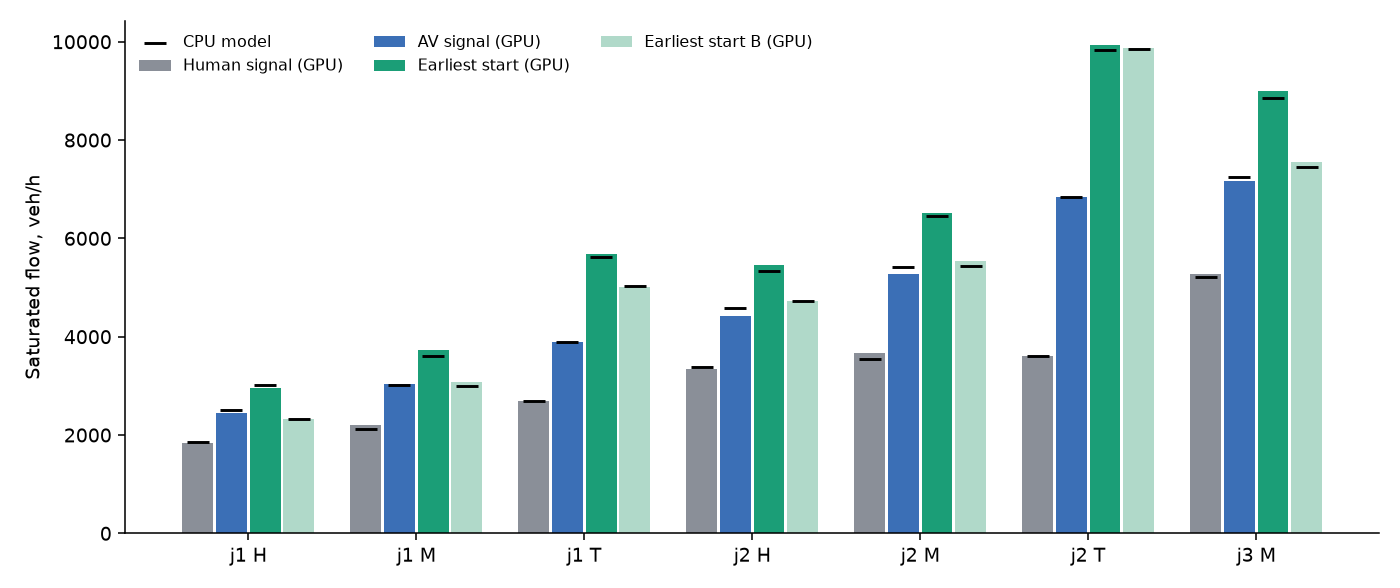
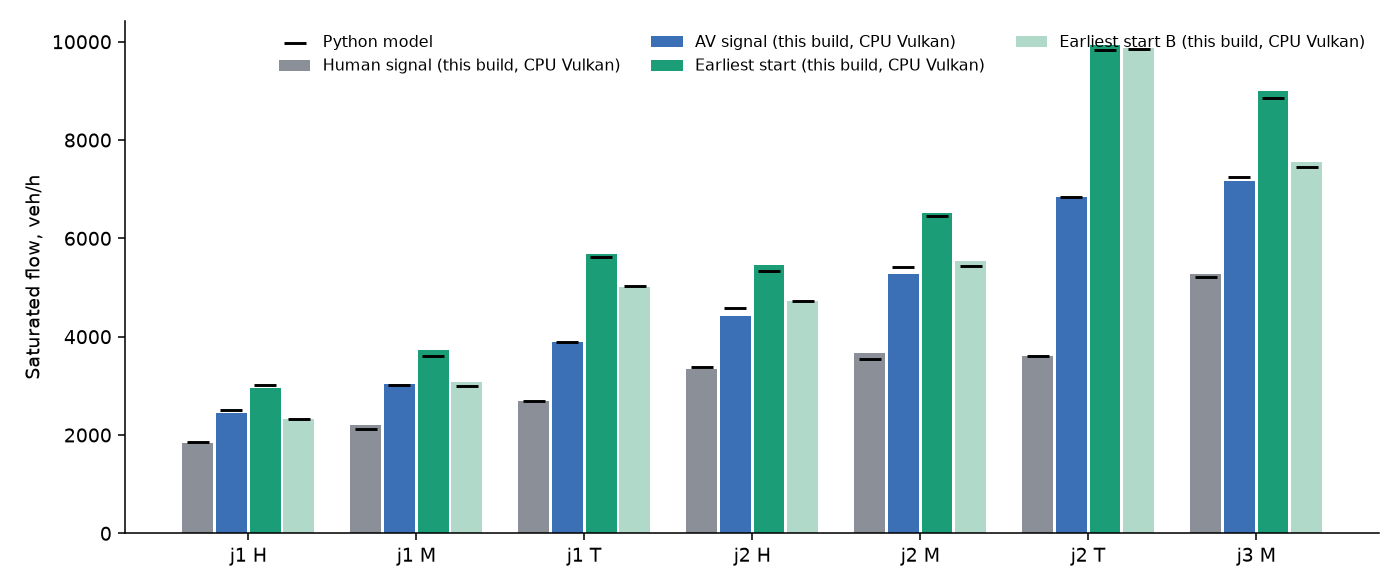
Fix two errors from the fact check: metering rows mixed policies, and GPU labels on CPU Vulkan results

Changed region(s): [[0.0921, 0.0612, 0.7064, 0.1224], [0.7064, 0.0612, 0.9829, 0.0918]]

diff --git a/scripts/d8/compare.py b/scripts/d8/compare.py
@@ -1,5 +1,6 @@
 #!/usr/bin/env python3
-"""GPU results against the CPU model (research/truth/fig/09b-*.csv): tables on stdout, figures in fig/d8."""
+"""Results of this build against the Python model of report 09 (research/truth/fig/09b-*.csv). Tables on stdout, figures
+in fig/d8. "This build" means the WGSL kernels on CPU Vulkan (llvmpipe) unless a column says GPU: only gpu_cells.jsonl ran on the RX 7900 XT."""
 import csv, json, sys
 from collections import defaultdict
 from pathlib import Path
@@ -50,8 +51,8 @@ def capacity():
     for r in cpu('capacity'):
         if r.get('flow'):
             cp[(r['net'], r['mix'], r['policy'], r['level'])].append(float(r['flow']))
-    print('\n## Capacity, veh/h: GPU against the CPU model')
-    print('| Case | Policy | GPU | CPU | Diff | Overlaps | Invariant | Teleports |')
+    print('\n## Capacity, veh/h: this build (CPU Vulkan) against the Python model')
+    print('| Case | Policy | This build | Python model | Diff | Overlaps | Invariant | Teleports |')
     print('|---|---|---:|---:|---:|---:|---:|---:|')
     names = dict(ges='Earliest start', sig_av='AV signal', sig_h='Human signal')
     out = []
@@ -77,8 +78,8 @@ def capacity():
                     xs.append(j + (i - 1.5) * w)
                     gv.append(m[0][2])
                     cv.append(m[0][3])
-            ax.bar(xs, gv, w * 0.92, label=p + ' (GPU)', color=colors[i])
-            ax.scatter(xs, cv, marker='_', s=120, color='black', zorder=3, label='CPU model' if i == 0 else None)
+            ax.bar(xs, gv, w * 0.92, label=p + ' (this build, CPU Vulkan)', color=colors[i])
+            ax.scatter(xs, cv, marker='_', s=120, color='black', zorder=3, label='Python model' if i == 0 else None)
         ax.set_xticks(range(len(cases)), cases)
         ax.set_ylabel('Saturated flow, veh/h')
         ax.legend(frameon=False, ncols=3, fontsize=8)
@@ -99,7 +100,7 @@ def demand():
     if not gpu:
         return
     print('\n## Delay, s per offered vehicle, and stops per car')
-    print('| Case | veh/h | Policy | GPU delay | CPU delay | GPU stops | CPU stops | Overlaps |')
+    print('| Case | veh/h | Policy | Delay, this build | Delay, Python model | Stops, this build | Stops, Python model | Overlaps |')
     print('|---|---:|---|---:|---:|---:|---:|---:|')
     for k in sorted(gpu):
         g = gpu[k]
@@ -126,7 +127,7 @@ def faults():
             x = r['x']
             cp[(r['fault'], float(x), float(r['demand']), r['chk'])] = r
     print('\n## Faults, 2 lanes, 20% turns')
-    print('| Fault | veh/h | GPU flow | CPU flow | GPU delay | CPU delay | Overlaps | Ungranted crossings | Stopped in box, veh·s |')
+    print('| Fault | veh/h | Flow, this build | Flow, Python model | Delay, this build | Delay, Python model | Overlaps | Ungranted crossings | Stopped in box, veh·s |')
     print('|---|---:|---:|---:|---:|---:|---:|---:|---:|')
     for r in rows('faults'):
         c, g = r['case'], r['result']
@@ -155,9 +156,9 @@ def loss_plot():
     fig, ax = plt.subplots(figsize=(6.5, 3.8))
     for d, col in ((3000, '#3b6fb6'), (5000, '#1b9e77')):
         xs = sorted(gpu[d])
-        ax.plot(xs, [gpu[d][x] for x in xs], 'o-', color=col, label=f'{d} veh/h, GPU')
+        ax.plot(xs, [gpu[d][x] for x in xs], 'o-', color=col, label=f'{d} veh/h, this build')
         xs = sorted(ref[d])
-        ax.plot(xs, [ref[d][x] for x in xs], 'x--', color=col, alpha=0.6, label=f'{d} veh/h, CPU')
+        ax.plot(xs, [ref[d][x] for x in xs], 'x--', color=col, alpha=0.6, label=f'{d} veh/h, Python model')
     ax.set_yscale('log')
     ax.set_xlabel('Message loss')
     ax.set_ylabel('Delay, s per vehicle')
@@ -170,7 +171,7 @@ def loss_plot():
 
 def stalls():
     print('\n## Injected stalls in the box (reported separately)')
-    print('| Case | veh/h | Stalls | Collision events | Per stall | CPU per stall |')
+    print('| Case | veh/h | Stalls | Collision events | Per stall | Python model per stall |')
     print('|---|---:|---:|---:|---:|---:|')
     agg = defaultdict(lambda: [0, 0])
     for r in rows('stalls'):
@@ -216,7 +217,7 @@ def verify():
     if not p.exists():
         return
     print('\n## CPU Vulkan against the RX 7900 XT, same binary, same cases')
-    print('| Part | Case | Flow, CPU | Flow, GPU | Diff | Overlaps, CPU | Overlaps, GPU |')
+    print('| Part | Case | Flow, CPU Vulkan | Flow, GPU | Diff | Overlaps, CPU Vulkan | Overlaps, GPU |')
     print('|---|---|---:|---:|---:|---:|---:|')
     for l in p.read_text().splitlines():
         r = json.loads(l)
@@ -237,7 +238,7 @@ def faults2():
     rs = rows('faults2')
     if not rs:
         return
-    print('\n## Links gone for good (not in the CPU model)')
+    print('\n## Links gone for good (not in the Python model)')
     print('| Case | veh/h | Flow | Delay | Overlaps | Ungranted crossings | Stuck cars at the end |')
     print('|---|---:|---:|---:|---:|---:|---:|')
     for r in rs:
@@ -252,7 +253,8 @@ def meter_table():
     agg = defaultdict(list)
     for r in rs:
         c = r['case']
-        agg[(c['net'], c['demand'], c.get('meter', 0))].append(r['result'])
+        if c.get('meter'):
+            agg[(c['net'], c['demand'], c['meter'])].append(r['result'])
     base = rows('grid') + rows('meter_seeds')
     b = defaultdict(list)
     for r in base:

diff --git a/research/truth/fig/d8/tables.md b/research/truth/fig/d8/tables.md
@@ -16,7 +16,7 @@
 | j3 M | 15000 | sig_av | 7269 | 255.0 | 6.80 | 0 | 0 | 0.72 |
 
 ## CPU Vulkan against the RX 7900 XT, same binary, same cases
-| Part | Case | Flow, CPU | Flow, GPU | Diff | Overlaps, CPU | Overlaps, GPU |
+| Part | Case | Flow, CPU Vulkan | Flow, GPU | Diff | Overlaps, CPU Vulkan | Overlaps, GPU |
 |---|---|---:|---:|---:|---:|---:|
 | demand | j2 5200 sig_h   | 3666 | 3666 | +0.0% | 0 | 0 |
 | demand | j2 3000 sig_h   | 2802 | 2802 | +0.0% | 0 | 0 |
@@ -47,8 +47,8 @@
 
 ## Saturation headway, one through stream each way: 5139 veh/h over 2 streams, 1.401 s per car; reference 1.304 s
 
-## Capacity, veh/h: GPU against the CPU model
-| Case | Policy | GPU | CPU | Diff | Overlaps | Invariant | Teleports |
+## Capacity, veh/h: this build (CPU Vulkan) against the Python model
+| Case | Policy | This build | Python model | Diff | Overlaps | Invariant | Teleports |
 |---|---|---:|---:|---:|---:|---:|---:|
 | j1 H | Earliest start | 2966 | 3021 | -1.8% | 0 | 0 | 0 |
 | j1 H | Earliest start B | 2324 | 2316 | +0.3% | 0 | 0 | 0 |
@@ -80,7 +80,7 @@
 | j3 M | Human signal | 5265 | 5208 | +1.1% | 0 | 0 | 0 |
 
 ## Delay, s per offered vehicle, and stops per car
-| Case | veh/h | Policy | GPU delay | CPU delay | GPU stops | CPU stops | Overlaps |
+| Case | veh/h | Policy | Delay, this build | Delay, Python model | Stops, this build | Stops, Python model | Overlaps |
 |---|---:|---|---:|---:|---:|---:|---:|
 | j1 T ew0.5 | 1000 | ges | 0.3 | 0.1 | 0.00 | 0.00 | 0 |
 | j1 T ew0.5 | 1000 | sig_av | 0.9 | 0.7 | 0.01 | 0.00 | 0 |
@@ -138,7 +138,7 @@
 | j2 M ew0.8 | 5200 | sig_h | 208.4 | 204.7 | 2.54 | 2.56 | 0 |
 
 ## Faults, 2 lanes, 20% turns
-| Fault | veh/h | GPU flow | CPU flow | GPU delay | CPU delay | Overlaps | Ungranted crossings | Stopped in box, veh·s |
+| Fault | veh/h | Flow, this build | Flow, Python model | Delay, this build | Delay, Python model | Overlaps | Ungranted crossings | Stopped in box, veh·s |
 |---|---:|---:|---:|---:|---:|---:|---:|---:|
 | loss0.0 | 3000 | 3042 | 3054 | 1.7 | 1.7 | 0 | 0 | 0.0 |
 | loss0.1 | 3000 | 3054 | 3066 | 1.7 | 2.1 | 0 | 0 | 0.0 |
@@ -170,7 +170,7 @@
 | exit_cap_chkFalse | 3000 | 2736 | 2784 | 36.1 | 35.8 | 0 | 0 | 0.0 |
 
 ## Injected stalls in the box (reported separately)
-| Case | veh/h | Stalls | Collision events | Per stall | CPU per stall |
+| Case | veh/h | Stalls | Collision events | Per stall | Python model per stall |
 |---|---:|---:|---:|---:|---:|
 | stallA | 3000 | 30 | 3 | 0.10 | 0.24 |
 | stallA | 5000 | 33 | 10 | 0.30 | 0.23 |
@@ -246,7 +246,7 @@
 | grid2 M | 24000 | ges B | 0 | 6960 | 228.4 | 3 | 0 | 2810 | 1.05 | 619 |
 | grid2 M | 24000 | ges A nocheck | 0 | 12808 | 116.5 | 505 | 0 | 1881 | 1.03 | 548 |
 
-## Links gone for good (not in the CPU model)
+## Links gone for good (not in the Python model)
 | Case | veh/h | Flow | Delay | Overlaps | Ungranted crossings | Stuck cars at the end |
 |---|---:|---:|---:|---:|---:|---:|
 | blackout30_fallback | 3000 | 3042 | 2.7 | 0 | 0 | 0 |
@@ -265,7 +265,6 @@
 ## Grid overload: metering at the edge, mean of seeds
 | Net | Offered | Network held at | Seeds | Flow | Delay incl. waiting outside | Overlap events, total | Stuck |
 |---|---:|---:|---:|---:|---:|---:|---:|
-| grid1 | 14000 | 0 | 4 | 8862 | 143 | 11 | 0 |
 | grid1 | 14000 | 60 | 1 | 4552 | 244 | 0 | 0 |
 | grid1 | 14000 | 80 | 1 | 6064 | 208 | 0 | 0 |
 | grid1 | 14000 | 100 | 1 | 7128 | 176 | 0 | 0 |
@@ -273,10 +272,8 @@
 | grid1 | 14000 | 140 | 4 | 8798 | 137 | 0 | 0 |
 | grid1 | 14000 | 170 | 4 | 9382 | 125 | 2 | 0 |
 | grid1 | 14000 | 200 | 4 | 9706 | 117 | 11 | 0 |
-| grid2 | 20000 | 0 | 4 | 16348 | 70 | 30 | 0 |
 | grid2 | 20000 | 240 | 3 | 16635 | 63 | 4 | 0 |
 | grid2 | 20000 | 280 | 3 | 17739 | 47 | 14 | 0 |
-| grid2 | 24000 | 0 | 4 | 15862 | 122 | 41 | 0 |
 | grid2 | 24000 | 120 | 1 | 9768 | 213 | 0 | 0 |
 | grid2 | 24000 | 160 | 1 | 12528 | 171 | 0 | 0 |
 | grid2 | 24000 | 200 | 4 | 14872 | 139 | 0 | 0 |
@@ -308,52 +305,68 @@
 | district | 1500 | av_free | 44 | 64 | 1437 | 40.6 | 0 | 0 | 0 | 0 | 3 |
 | district | 1500 | av_free_b | 44 | 64 | 1437 | 41.2 | 0 | 0 | 0 | 0 | 2 |
 | district | 1500 | av_free_meter | 44 | 64 | 1437 | 40.6 | 0 | 0 | 0 | 0 | 3 |
+| district | 1500 | av_plan | 44 | 64 | 1432 | 41.8 | 0 | 0 | 0 | 0 | 4 |
 | district | 1500 | av_signal_baseline | 44 | 64 | 1427 | 39.9 | 0 | 0 | 0 | 0 | 5 |
 | district | 1500 | av_signals | 0 | 0 | 1419 | 47.7 | 0 | 0 | 0 | 0 | 4 |
 | district | 1500 | krauss_signals | 0 | 0 | 1404 | 50.1 | 0 | 0 | 0 | 0 | 6 |
 | district | 3000 | av_free | 44 | 64 | 2517 | 50.6 | 0 | 0 | 0 | 0 | 126 |
 | district | 3000 | av_free_b | 44 | 64 | 2384 | 50.9 | 0 | 0 | 0 | 0 | 199 |
 | district | 3000 | av_free_meter | 44 | 64 | 2019 | 55.0 | 0 | 0 | 0 | 0 | 134 |
+| district | 3000 | av_plan | 44 | 64 | 2330 | 52.5 | 2 | 1 | 0 | 0 | 157 |
 | district | 3000 | av_signal_baseline | 44 | 64 | 2445 | 51.8 | 2 | 0 | 0 | 0 | 130 |
 | district | 3000 | av_signals | 0 | 0 | 2456 | 59.0 | 0 | 0 | 0 | 0 | 156 |
 | district | 3000 | krauss_signals | 0 | 0 | 2515 | 55.0 | 0 | 0 | 0 | 0 | 78 |
 | district | 5000 | av_free | 44 | 64 | 2289 | 64.1 | 0 | 0 | 0 | 0 | 958 |
 | district | 5000 | av_free_b | 44 | 64 | 2643 | 75.3 | 0 | 0 | 0 | 0 | 701 |
 | district | 5000 | av_free_meter | 44 | 64 | 2325 | 58.8 | 0 | 0 | 0 | 0 | 14 |
+| district | 5000 | av_plan | 44 | 64 | 2577 | 70.4 | 0 | 0 | 0 | 0 | 573 |
 | district | 5000 | av_signal_baseline | 44 | 64 | 2021 | 52.6 | 2 | 0 | 0 | 0 | 1049 |
 | district | 5000 | av_signals | 0 | 0 | 2484 | 65.2 | 0 | 0 | 0 | 0 | 911 |
 | district | 5000 | krauss_signals | 0 | 0 | 2263 | 68.5 | 0 | 0 | 0 | 0 | 844 |
 | district | 8000 | av_free | 44 | 64 | 1846 | 39.9 | 0 | 0 | 0 | 0 | 1894 |
 | district | 8000 | av_free_b | 44 | 64 | 2209 | 58.4 | 0 | 0 | 0 | 0 | 1836 |
 | district | 8000 | av_free_meter | 44 | 64 | 1368 | 78.1 | 0 | 0 | 0 | 0 | 184 |
+| district | 8000 | av_plan | 44 | 64 | 2263 | 57.7 | 0 | 0 | 0 | 0 | 1766 |
 | district | 8000 | av_signal_baseline | 44 | 64 | 2260 | 53.8 | 1 | 0 | 0 | 0 | 1867 |
 | district | 8000 | av_signals | 0 | 0 | 2659 | 71.0 | 0 | 0 | 0 | 0 | 1769 |
 | district | 8000 | krauss_signals | 0 | 0 | 2672 | 86.0 | 0 | 0 | 0 | 0 | 1550 |
+| district_joined | 1500 | av_free | 54 | 37 | 1473 | 32.8 | 0 | 0 | 0 | 0 | 0 |
+| district_joined | 1500 | av_plan | 54 | 37 | 1455 | 35.0 | 0 | 0 | 0 | 0 | 0 |
+| district_joined | 1500 | krauss_signals | 0 | 0 | 1450 | 51.0 | 0 | 0 | 0 | 0 | 0 |
+| district_joined | 3000 | av_free | 54 | 37 | 2710 | 41.0 | 1 | 0 | 0 | 0 | 9 |
+| district_joined | 3000 | av_plan | 54 | 37 | 2461 | 47.1 | 1 | 0 | 0 | 0 | 40 |
+| district_joined | 3000 | krauss_signals | 0 | 0 | 2559 | 66.6 | 0 | 0 | 0 | 0 | 6 |
+| district_joined | 5000 | av_free | 54 | 37 | 3217 | 62.2 | 1 | 0 | 0 | 0 | 381 |
+| district_joined | 5000 | av_plan | 54 | 37 | 2093 | 54.7 | 1 | 0 | 0 | 0 | 706 |
+| district_joined | 5000 | krauss_signals | 0 | 0 | 3266 | 86.2 | 0 | 0 | 0 | 0 | 404 |
+| district_joined | 8000 | av_free | 54 | 37 | 2492 | 73.0 | 1 | 0 | 0 | 0 | 1221 |
+| district_joined | 8000 | av_plan | 54 | 37 | 2142 | 58.9 | 1 | 0 | 0 | 0 | 1424 |
+| district_joined | 8000 | krauss_signals | 0 | 0 | 2888 | 99.9 | 0 | 0 | 0 | 0 | 1444 |
 | junction | 800 | av_free | 1 | 0 | 810 | 17.5 | 0 | 0 | 0 | 0 | 0 |
 | junction | 800 | av_free_b | 1 | 0 | 807 | 17.8 | 0 | 0 | 0 | 0 | 0 |
 | junction | 800 | av_free_meter | 1 | 0 | 810 | 17.5 | 0 | 0 | 0 | 0 | 0 |
+| junction | 800 | av_plan | 1 | 0 | 807 | 17.5 | 0 | 0 | 0 | 0 | 0 |
 | junction | 800 | av_signal_baseline | 1 | 0 | 810 | 17.6 | 0 | 0 | 0 | 0 | 0 |
 | junction | 800 | av_signals | 0 | 0 | 807 | 24.7 | 0 | 0 | 0 | 0 | 0 |
 | junction | 800 | krauss_signals | 0 | 0 | 807 | 26.0 | 0 | 0 | 0 | 0 | 0 |
 | junction | 1500 | av_free | 1 | 0 | 1491 | 26.3 | 0 | 0 | 0 | 0 | 0 |
 | junction | 1500 | av_free_b | 1 | 0 | 1491 | 26.6 | 0 | 0 | 0 | 0 | 0 |
 | junction | 1500 | av_free_meter | 1 | 0 | 1491 | 26.3 | 0 | 0 | 0 | 0 | 0 |
+| junction | 1500 | av_plan | 1 | 0 | 1497 | 25.7 | 0 | 0 | 0 | 0 | 0 |
 | junction | 1500 | av_signal_baseline | 1 | 0 | 1489 | 27.4 | 0 | 0 | 0 | 0 | 0 |
 | junction | 1500 | av_signals | 0 | 0 | 1473 | 36.5 | 0 | 0 | 0 | 0 | 0 |
 | junction | 1500 | krauss_signals | 0 | 0 | 1471 | 39.3 | 0 | 0 | 0 | 0 | 3 |
 | junction | 2500 | av_free | 1 | 0 | 2348 | 41.1 | 0 | 0 | 0 | 0 | 0 |
 | junction | 2500 | av_free_b | 1 | 0 | 2075 | 39.2 | 0 | 0 | 0 | 0 | 44 |
 | junction | 2500 | av_free_meter | 1 | 0 | 2325 | 41.2 | 0 | 0 | 0 | 0 | 4 |
+| junction | 2500 | av_plan | 1 | 0 | 2358 | 39.4 | 0 | 0 | 0 | 0 | 15 |
 | junction | 2500 | av_signal_baseline | 1 | 0 | 2394 | 42.6 | 0 | 0 | 0 | 0 | 3 |
 | junction | 2500 | av_signals | 0 | 0 | 2294 | 57.0 | 0 | 0 | 0 | 0 | 13 |
 | junction | 2500 | krauss_signals | 0 | 0 | 2242 | 62.7 | 0 | 0 | 0 | 0 | 41 |
 | junction | 4000 | av_free | 1 | 0 | 3088 | 69.2 | 0 | 0 | 0 | 0 | 117 |
 | junction | 4000 | av_free_b | 1 | 0 | 2739 | 84.0 | 0 | 0 | 0 | 0 | 242 |
 | junction | 4000 | av_free_meter | 1 | 0 | 2430 | 69.0 | 0 | 0 | 0 | 0 | 0 |
+| junction | 4000 | av_plan | 1 | 0 | 2307 | 112.8 | 0 | 0 | 0 | 0 | 285 |
 | junction | 4000 | av_signal_baseline | 1 | 0 | 3078 | 69.4 | 0 | 0 | 0 | 0 | 141 |
 | junction | 4000 | av_signals | 0 | 0 | 2613 | 106.8 | 0 | 0 | 0 | 0 | 221 |
 | junction | 4000 | krauss_signals | 0 | 0 | 2196 | 113.0 | 0 | 0 | 0 | 0 | 357 |
-
-## Compute on the RX 7900 XT, bounds checks on
-| Net | Junctions | Mean vehicles | ms per step | Without coordinator | Coordinator kernels at t=200, ms | Coordinator memory, MB |
-|---|---:|---:|---:|---:|---:|---:|

diff --git a/research/truth/09c-d8-gpu-build.md b/research/truth/09c-d8-gpu-build.md
@@ -28,6 +28,11 @@ Built from the "Reviewed by Opus" section of [09](09-coordinated-intersections.m
 - **Stricter auditor than the CPU model:** it also tests cars with their front past the box and tail in it, and heads within 3 m of the line.
 - **Batch polling and FCFS were not built.** They were comparison policies in the report and were not asked for here, so spec test 4 (K crossover) is not run.
 
+## Corrections after a fact check
+
+- **Device labels.** The columns headed "GPU" in [tables.md](fig/d8/tables.md) and the legends of `capacity.png` and `demand.png` were mostly CPU Vulkan (llvmpipe), as the section below says but the labels did not. They now read "this build" against "Python model". Only `gpu_cells.jsonl` ran on the RX 7900 XT: the 26 cases in the table "CPU Vulkan against the RX 7900 XT" and the table of numbers the spec names.
+- **"Network held at 0".** Those rows in the metering table of tables.md averaged signal-free and AV-signal runs, because `compare.py` did not separate policy, and `metering.png` plotted them as if metered. Removed. The unmetered baselines are the separate "none, signal-free" and "AV signal" rows, which were right, and so are the numbers quoted in this report.
+
 ## Which device ran what
 
 The GPU lock had about ten jobs waiting for most of this work, and each sweep had to be rerun twice after bugs below. So the final sweeps ran the same kernels on CPU Vulkan (llvmpipe), and on the RX 7900 XT ran the cells the spec names, compute cost and the clips, plus a 26-case sample of the rest ([fig/d8/verify.jsonl](fig/d8/verify.jsonl), table in the tables file). In that sample 14 cases match to the digit on flow, and the rest differ by up to 1.3% on single junctions and 4.3% on one grid case. Overlap counts differ too when they are not zero: 3 and 5, 3 and 8, 0 and 1. So the two are statistically comparable, not identical, and an overlap count of 0 from CPU Vulkan is evidence for that seed on that device only. At 3000 veh/h a run repeats exactly on one device, including with message loss.
